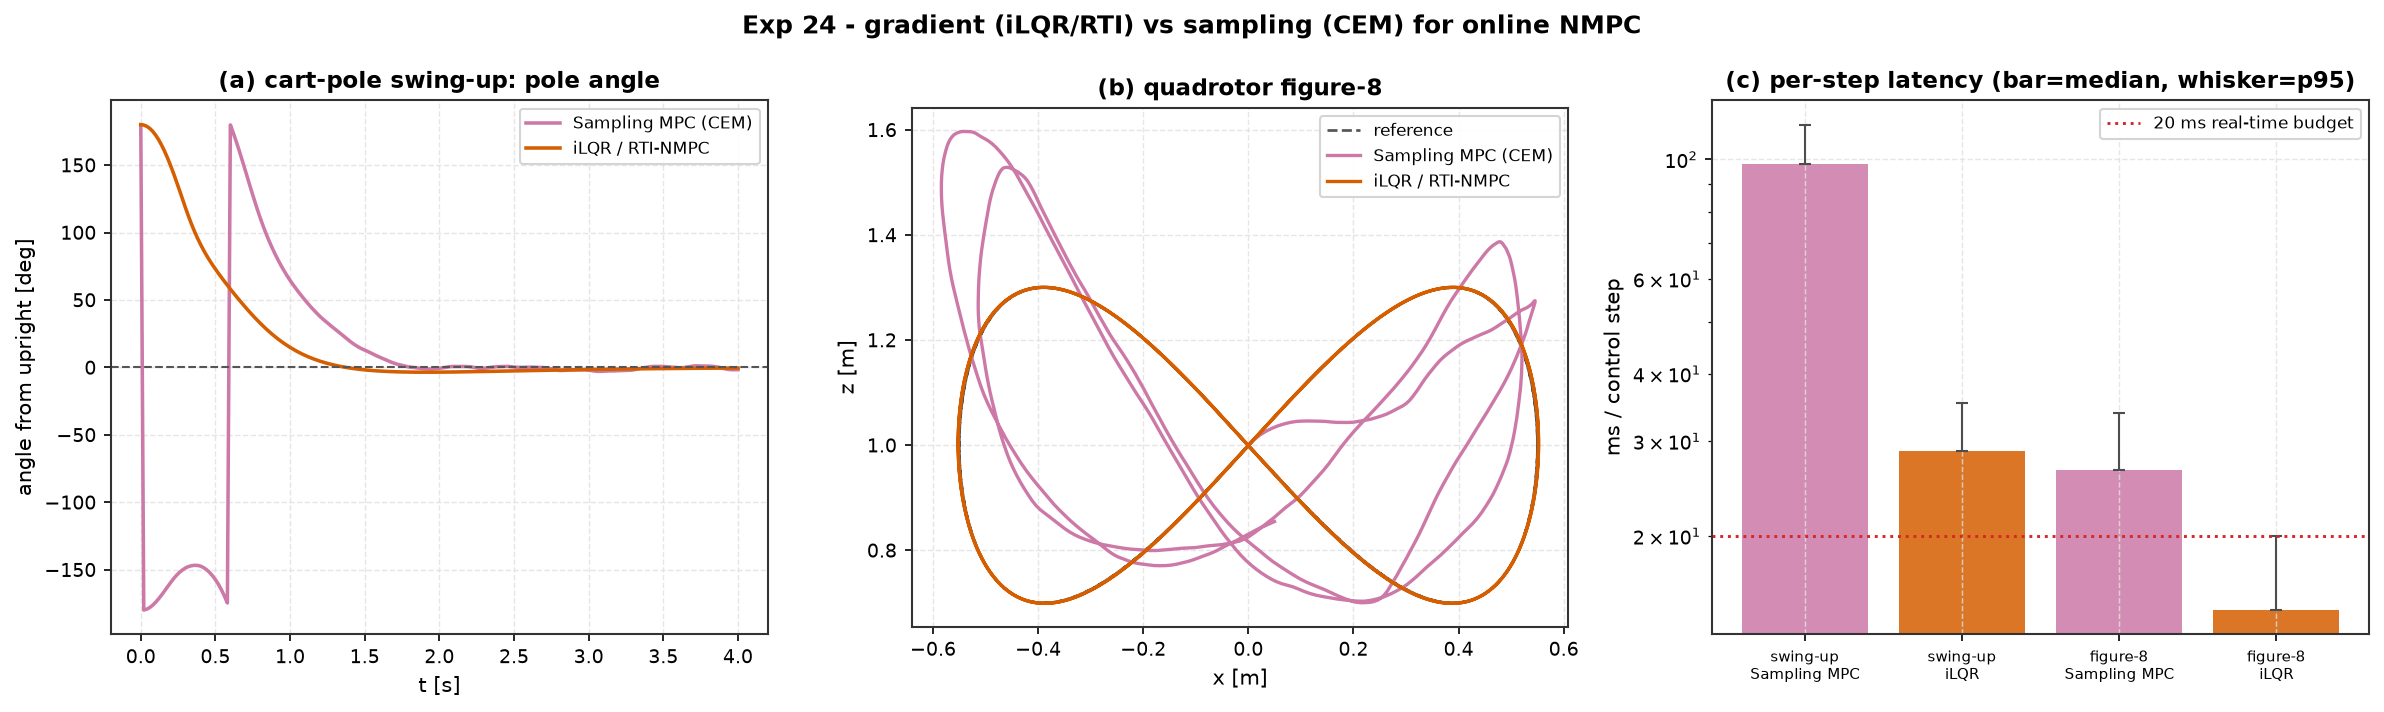
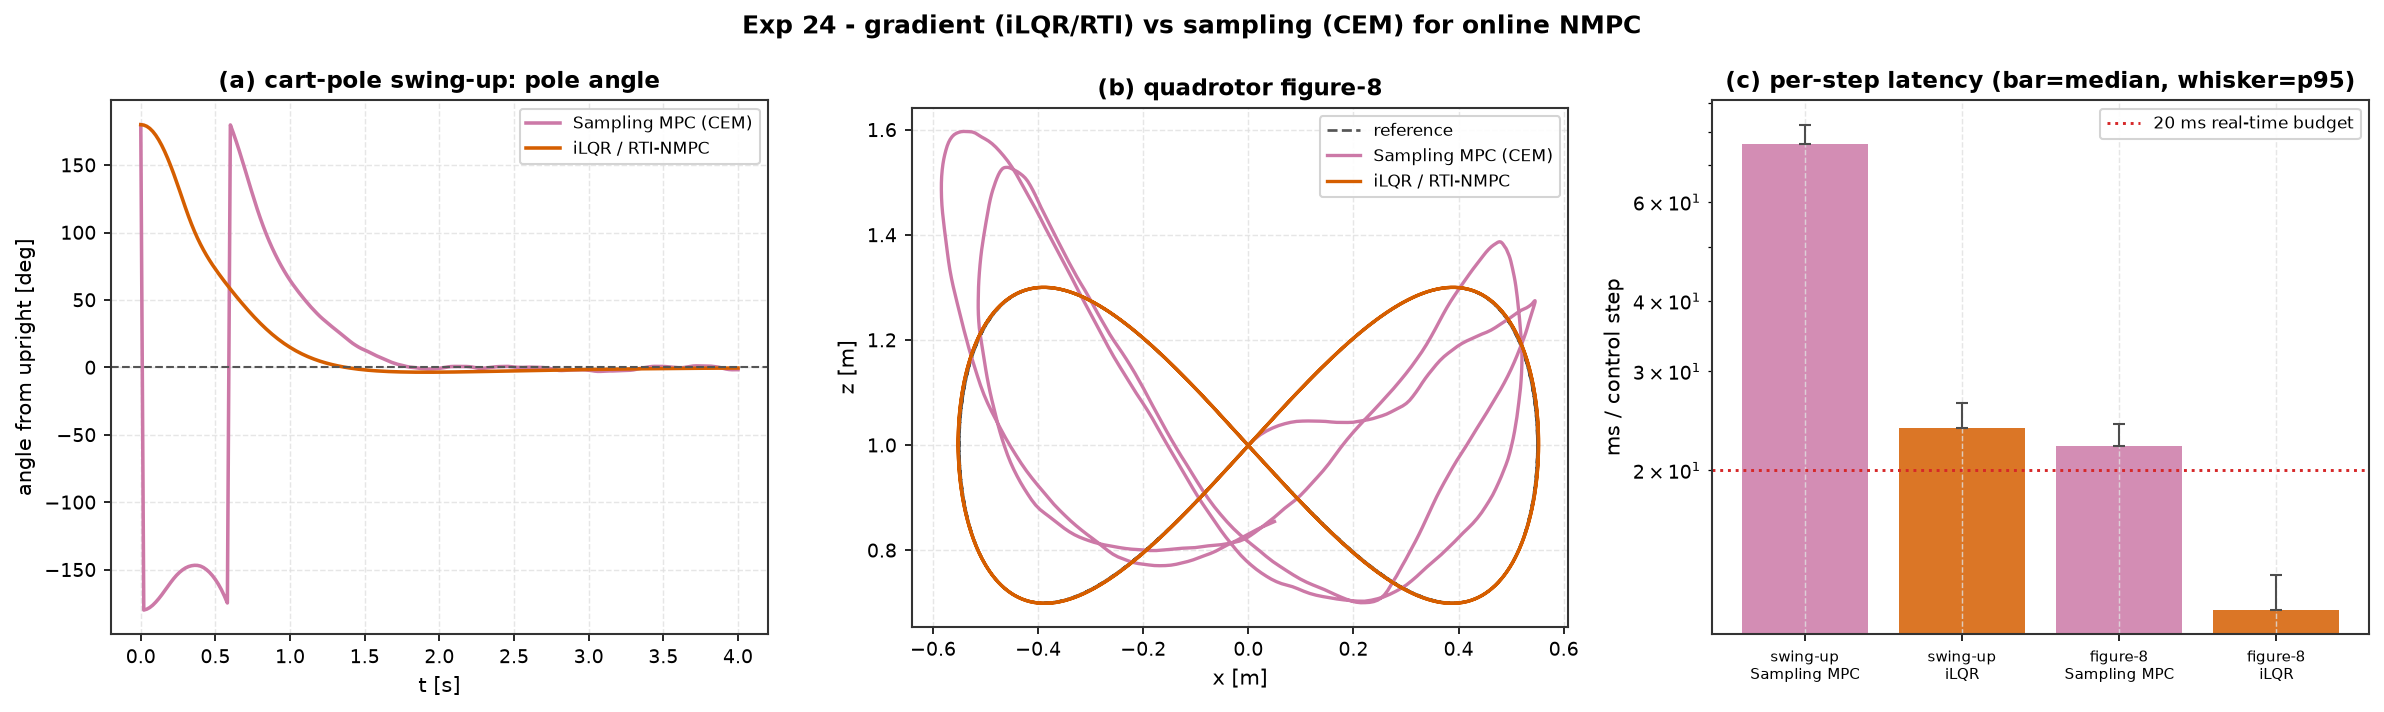
packaging: single-source version + honest CLI listing + graceful live sandbox in wheel
Verification pass before any PyPI publish turned up three release bugs:

- aimct.__version__ was '0.0.1' while pyproject/CHANGELOG say 0.1.0 -> an
  installed 0.1.0 wheel reported the wrong version. pyproject now takes
  version dynamically from aimct.__version__ (single source of truth);
  bumped the source string to 0.1.0. Rebuilt: twine check passes, fresh-venv
  install reports 0.1.0.
- 'aimct list' only showed the 4 systems that have a compare preset, hiding
  DCMotor/Quadrotor3D/DifferentialDriveRobot/TwoLinkArm. Now lists every
  aimct.systems class, marking which are runnable via 'aimct compare'.
- 'aimct live' / 'live3d' from an installed wheel hit FileNotFoundError
  (experiments/ isn't packaged). Now prints a clone-the-repo hint, exits 1.

Also refreshed exp 24 artifacts (AIMCT_EXP_FULL=1); task metrics unchanged,
latency numbers are machine-dependent.

Full suite: 356 passed. Wheel + sdist build clean, no experiments/docs leak.

diff --git a/src/aimct/__main__.py b/src/aimct/__main__.py
@@ -73,7 +73,7 @@ def main(argv=None) -> int:
     pc.add_argument("--t-final", type=float, default=None)
     pc.add_argument("--dt", type=float, default=None)
 
-    sub.add_parser("list", help="list the built-in systems")
+    sub.add_parser("list", help="list the built-in systems (* = has a compare preset)")
 
     pl = sub.add_parser("live", help="interactive 2-D drone-vs-wind sandbox")
     pl.add_argument("--headless", action="store_true",
@@ -89,14 +89,34 @@ def main(argv=None) -> int:
     args = p.parse_args(argv)
 
     if args.cmd == "list":
+        from . import systems as _sys
+
+        print("runnable via `aimct compare --system <name>`:")
         for name in sorted(_PRESETS):
-            print(name)
+            print(f"  {name}")
+        skip = {"DynamicalSystem", "LinearSystem"}
+        extra = [c for c in sorted(getattr(_sys, "__all__", []))
+                 if c not in skip and isinstance(getattr(_sys, c, None), type)]
+        print("\nalso in aimct.systems (import directly; no compare preset yet):")
+        for c in extra:
+            print(f"  aimct.systems.{c}")
         return 0
 
     if args.cmd in ("live", "live3d"):
         import runpy
         from pathlib import Path
         d = Path(__file__).resolve().parents[2] / "experiments"
+        if not d.is_dir():
+            print(
+                "The interactive sandboxes live under experiments/ in the source\n"
+                "checkout and are not shipped in the installed package. Clone the\n"
+                "repo and run from there:\n"
+                "  git clone https://github.com/zalihthomas-ui/ai-meets-control-theory\n"
+                "  cd ai-meets-control-theory\n"
+                f"  python -m aimct {args.cmd}",
+                file=sys.stderr,
+            )
+            return 1
         if args.cmd == "live":
             script = d / "live_drone" / "live.py"
         elif getattr(args, "web", False):

diff --git a/src/aimct/__init__.py b/src/aimct/__init__.py
@@ -10,4 +10,4 @@ rl           : agents and environments
 benchmarks   : standardized systems + controller comparison harness
 """
 
-__version__ = "0.0.1"
+__version__ = "0.1.0"

diff --git a/experiments/24_ilqr_vs_sampling_mpc/table.md b/experiments/24_ilqr_vs_sampling_mpc/table.md
@@ -6,8 +6,8 @@ horizon 60 steps (1.20 s), |F| <= 20 N, 4 s run
 
 | controller | time_to_upright_s | held_upright | final_angle_deg | peak_force_N | rms_force_N | lat_median_ms | lat_p95_ms | lat_cold_ms |
 | --- | --- | --- | --- | --- | --- | --- | --- | --- |
-| Sampling MPC (CEM) | 1.6 | True | 1.594 | 17.2 | 6.887 | 97.95 | 116 | 78.84 |
-| iLQR / RTI-NMPC | 1.12 | True | 0.3878 | 20 | 7.386 | 28.79 | 35.34 | 790.7 |
+| Sampling MPC (CEM) | 1.6 | True | 1.594 | 17.2 | 6.887 | 76.13 | 82.4 | 76.44 |
+| iLQR / RTI-NMPC | 1.12 | True | 0.3878 | 20 | 7.386 | 23.82 | 26.34 | 623.6 |
 
 ## Task 2 - quadrotor figure-8 tracking (Crazyflie 2.0)
 
@@ -15,8 +15,8 @@ horizon 20 steps, 12 s, real-time budget 20 ms/step
 
 | controller | rms_pos_err_mm | max_pos_err_mm | ctrl_energy | lat_median_ms | lat_p95_ms | lat_cold_ms |
 | --- | --- | --- | --- | --- | --- | --- |
-| Sampling MPC (CEM) | 202.2 | 439.1 | 0.02982 | 26.58 | 33.84 | 28.82 |
-| iLQR / RTI-NMPC | 1.336 | 2.404 | 0.004082 | 14.59 | 20.01 | 27.21 |
+| Sampling MPC (CEM) | 202.2 | 439.1 | 0.02982 | 22.08 | 24.16 | 24.11 |
+| iLQR / RTI-NMPC | 1.336 | 2.404 | 0.004082 | 11.29 | 13.02 | 23.07 |
 
 _median / p95 latency exclude the cold first solve, reported separately as `lat_cold_ms`._
 
